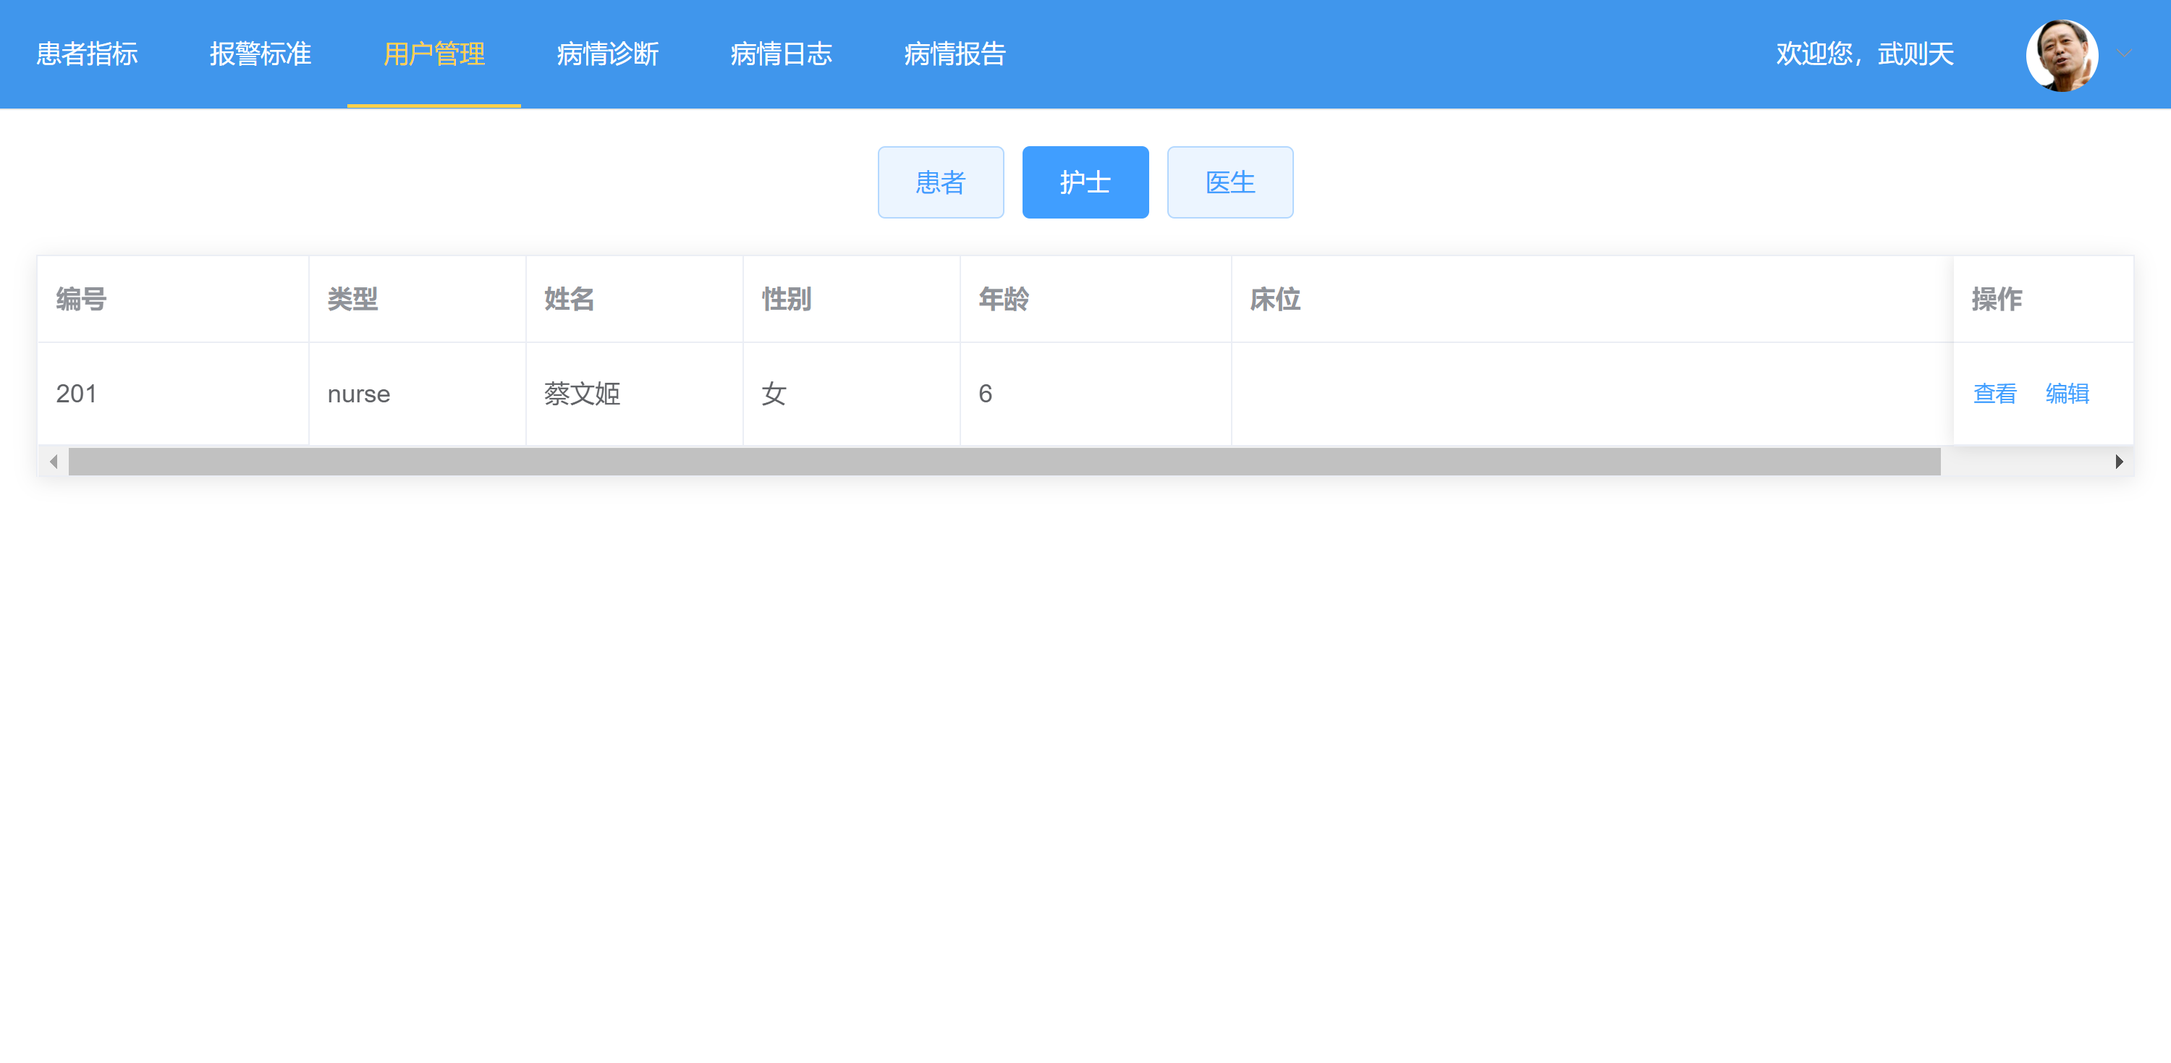
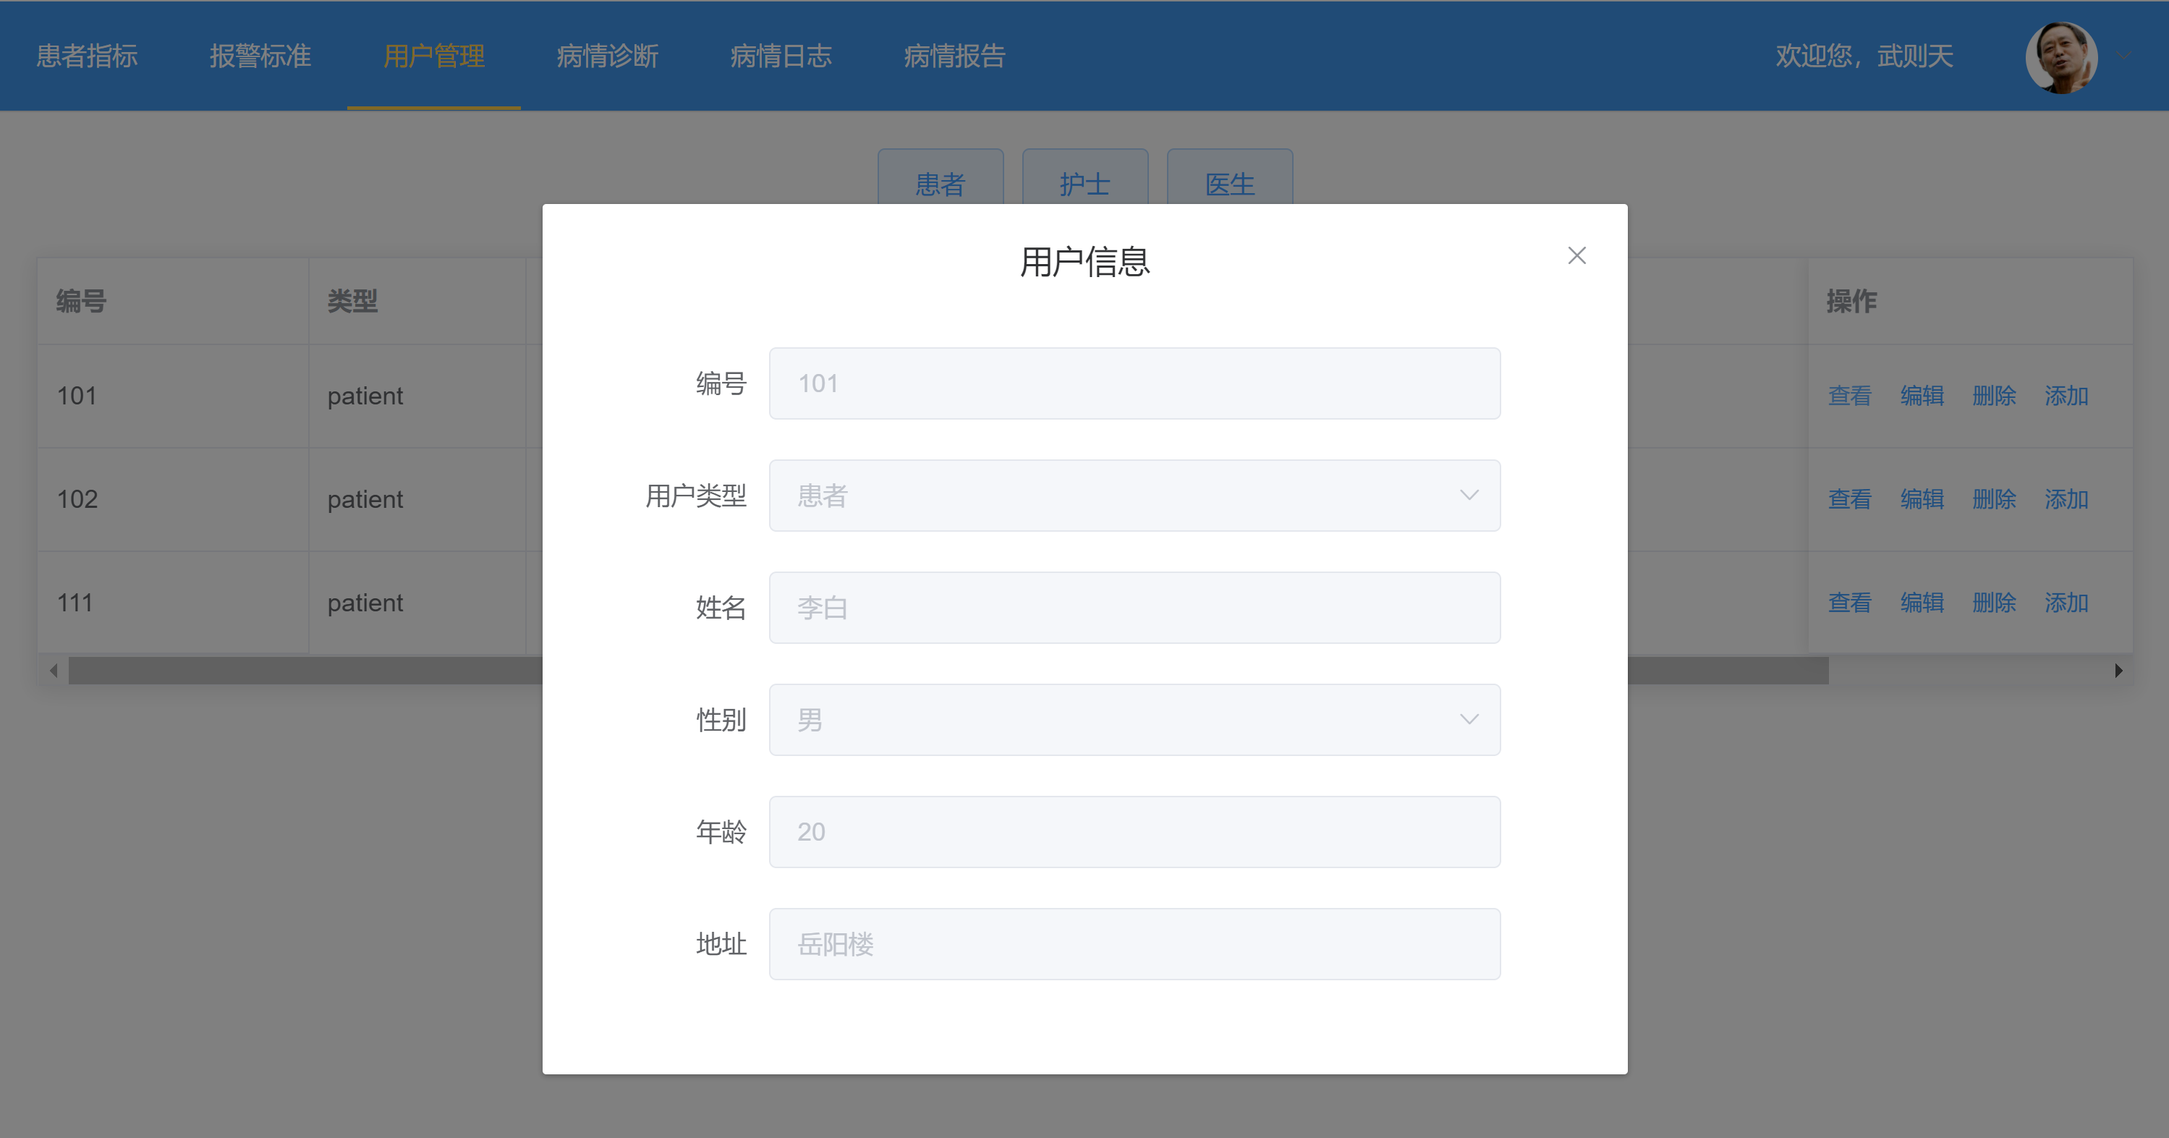
modify admin's functions;add basic test module;

diff --git a/README.md b/README.md
@@ -37,10 +37,10 @@
 #### 系统开发
 
 - [x] 环境搭建
-- [ ] 数据库搭建
-- [ ] 后端开发
-- [ ] 前端界面开发
-- [ ] 前端数据交互
+- [x] 数据库搭建
+- [x] 后端开发
+- [x] 前端界面开发
+- [x] 前端数据交互
 
 #### 软件测试
 
@@ -136,7 +136,7 @@
 
 #### 1.4 成本/效益分析
 
-#### 1.4 成本/效益分析
+
 
 ### 2. 需求分析
 
@@ -1905,43 +1905,183 @@ MIX_PUSHER_APP_CLUSTER="${PUSHER_APP_CLUSTER}"
 
 管理员可以对所有用户的信息进行管理。
 
-管理员可以查看所有患者的信息。
+管理员可以查看所有患者/护士/医生的信息。![21.1](C:\Users\70382\Desktop\2020 Go Ahead\SoftwareEngineering\img\UI\21.1.png)
 
-![21.1](.\img\UI\21.1.png)
+管理员可以查看用户的详细信息，同时，该界面不能编辑数据。![21.2](C:\Users\70382\Desktop\2020 Go Ahead\SoftwareEngineering\img\UI\21.2.png)
 
-管理员可以查看所有护士的信息。
+管理员可以修改用户的信息，在提交之后，前端数据会跟着同步信息。
 
-![21.2](.\img\UI\21.2.png)
+![21.3](C:\Users\70382\Desktop\2020 Go Ahead\SoftwareEngineering\img\UI\21.3.png)
 
-管理员可以查看所有医生的信息。
+管理员可以添加用户信息，单击添加按钮后可以添加新的用户，并且有消息提示添加成功/添加失败。
 
-![21.3](.\img\UI\21.3.png)
+![21.4](C:\Users\70382\Desktop\2020 Go Ahead\SoftwareEngineering\img\UI\21.4.png)
 
-管理员可以查看信息详情。
+![21.5](C:\Users\70382\Desktop\2020 Go Ahead\SoftwareEngineering\img\UI\21.5.png)
 
-![21.4](.\img\UI\21.4.png)
+管理员可以删除用户信息，单击按钮后可以删除用户，并且有消息提示删除成功/删除失败。
 
-管理员可以修改具体信息。
-
-![21.5](.\img\UI\21.5.png)
+![21.6](C:\Users\70382\Desktop\2020 Go Ahead\SoftwareEngineering\img\UI\21.6.png)
 
 #### 5.5测试
 
 ##### 5.2.1 软件测试的目标
 
+对于软件测试来说，可以从两个方向来理解。正向思维出发点：使自己确信产品是能够正常工作的评价一个程序和系统的特性或能力，并确定它是否达到期望的结果，软件测试就是以此为目的的任何行为。反向思维：测试是为发现错误而执行一个程序或者系统的过程，测试是为了证明程序有错，而不是证明程序无错误，一个好的测试用例在于它能发现以前未发现的错误，一个成功的测试是发现了以前未发现的错误的测试。那么通过对软件测试的描述，其实能总结出软件测试的目的，以最少的人力、物力和时间找出软件中潜在的各种错误和缺陷，通过修正各种错误和缺陷保障软件质量，避免软件发布后由于潜在的软件错误和缺陷造成的隐患所带来的商业风险。同时利用测试过程中得到的测试结果和测试信息，作为后续项目开发和测试过程改进的重要输入，避免在将来的项目开发和测试中重复同样的错误；采用更加高效的测试管理手段，提高软件测试的效率和软件产品的质量。
+
+- 软件测试是为了发现错误而执行程序的过程。
+- 测试是为了证明程序有错，而不是证明程序无错。（发现错误不是唯一目的）
+- 一个好的测试用例在于它发现至今未发现的错误。
+- 一个成功的测试是发现了至今未发现的错误的测试。
+
+需要注意的是：
+
+1. 测试并不仅仅是为了要找出错误。通过分析错误产生的原因和错误的分布特征。可以帮助项目管理者发现当前所采用的软件过程的缺陷，以便改进。同时，通过分析也能帮助我们设计出有针对性的检测方法，改善测试的有效性。
+
+2. 没有发现错误的测试也是有价值的，完整的测试是评定测试质量的一种方法。详细而严谨的可靠性增长模型可以证明这一点。例如Bev Littlewood发现一个经过测试而正常运行了n个小时的系统有继续正常运行n个小时的概率。
+
 ##### 5.2.2 软件测试的步骤
 
-##### 5.2.3 单元/集成/验收测试
+1. 需求分析
+
+　　1）先将需求规格说明书阅读一遍，熟悉项目的基本需求，对项目有个大概的框架思路。
+　　2）时间充足的情况下，可以利用画流程图的方法来理清需求和自己的思路。
+　　3）对照需求规格说明书将原型图仔细翻看一遍，对每个字段的来源去向有个思考，页面之间的跳转考虑清楚。
+　　4）在以上几个步骤的过程中，整理出需要注重的点，以及不能理解的问题，利用和同事之间讨论或是和项目经理确认，解决掉问题。
+
+2. 编写测试用例
+
+　　编写测试用例可以进一步理清自己的思路，以及项目的细节，锻炼自己的测试思维，使测试的时候对需求更加清楚。
+　　测试用例编写完成，需提交对应的项目日志。
+
+3. 测试开展
+
+　　功能测试第一轮，首先关注主流程能够走通，没有阻碍流程的问题存在，出现这类问题，及时和开发人员交流，解决问题。
+　　功能测试第二轮，关注各个端口的单独功能可以完全实现，没有阻碍，所有功能点均能实现。
+　　系统测试第一轮，各个端口综合在一起，各个端口的交互可以正常实现，并关注界面和用户体验的问题。
+　　兼容性测试，包括app和网页，app兼容测试根据测评中心设备测试，适应主流设备；网页需要兼容主流浏览器，如谷歌，火狐，IE，360等。
+　　每一轮功能测试结束，及时提交对应的项目日志，对测试情况进行总结。
+　　及时的进行bug复查，需复查项目管理系统上所有已解决和反馈给测评中心人员的反馈的bug。
+
+4. 编写测试报告
+
+　　项目的测试过程结束后，要及时的编写测试报告，把测试的情况、过程和结果写成文档，对发现的问题和缺陷进行分析，为纠正软件的存在的质量问题提供依据，同时为软件验收和交付打下基础。
+
+##### 5.2.3 软件测试的类别
+
+###### 5.2.3.1单元测试
+
+单元测试是指对软件中的最小可测试单元进行检查和验证。对于单元测试中单元的含义，一般来说，要根据实际情况去判定其具体含义，如C语言中单元指一个函数，Java里单元指一个类，图形化的软件中可以指一个窗口或一个菜单等。总的来说，单元就是人为规定的最小的被测功能模块。单元测试是在软件开发过程中要进行的最低级别的测试活动，软件的独立单元将在与程序的其他部分相隔离的情况下进行测试。
+
+###### 5.3.3.2集成测试
+
+集成测试介于单元测试和系统测试之间，起到“桥梁作用”，一般由开发小组采用白盒加黑盒的方式来测试，既验证“设计”，又验证“需求”。 主要用来测试模块与模块之间的接口，同时还要测试一些主要业务功能。集成测试（也叫组装测试，联合测试）是单元测试的逻辑扩展。它最简单的形式是：把两个已经测试过的单元组合成一个组件，测试它们之间的接口。从这一层意义上讲，组件是指多个单元的集成聚合。在现实方案中，许多单元组合成组件，而这些组件又聚合为程序的更大部分。方法是测试片段的组合，并最终扩展成进程，将模块与其他组的模块一起测试。最后，将构成进程的所有模块一起测试。此外，如果程序由多个进程组成，应该成对测试它们，而不是同时测试所有集成测试进程。
+
+###### 5.3.2.3系统测试
+
+系统测试粒度最大，一般由独立测试小组采用黑盒方式来测试，主要测试系统是否符合“需求规格说明书”。在经过以上各阶段测试确认之后，把系统完整地模拟客户环境来进行的测试。系统测试是将已经确认的软件、计算机硬件、外设、网络等其他元素结合在一起，进行信息系统的各种组装测试和确认测试，其目的是通过与系统的需求相比较，发现所开发的系统与用户需求不符或矛盾的地方，从而提出更加完善的方案.。它的的任务是尽可能彻底地检查出程序中的错误，提高软件系统的可靠性，其目的是检验系统"做得怎样？"。这阶段又可分为三个步骤：模块测试，测试每个模块的程序是否有错误；组装测试，测试模块之间的接口是否正确；确认测试，测试整个软件系统是否满足用户功能和性能的要求。该阶段结束应交付测试报告，说明测试数据的选择，测试用例以及测试结果是否符合预期结果。测试发现问题之后要经过调试找出错误原因和位置，然后进行改正。是基于系统整体需求说明书的黑盒类测试，应覆盖系统所有联合的部件。系统测试是针对整个产品系统进行的测试，目的是验证系统是否满足了需求规格的定义，找出与需求规格不相符合或与之矛盾的地方。
+系统测试的对象不仅仅包括需要测试的产品系统的软件，还要包含软件所依赖的硬件、外设甚至包括某些数据、某些支持软件及其接口等。因此，必须将系统中的软件与各种依赖的资源结合起来，在系统实际运行环境下来进行测试。
+
+###### 5.3.2.4验收测试
+
+验收测试与系统测试相似，主要区别是测试人员不同，验收测试由用户执行。
 
 ##### 5.2.4测试过程
 
 ###### 5.2.4.1单元测试（黑盒测试）
 
+黑盒测试，它是通过测试来检测每个功能是否都能正常使用。在测试中，把程序看作一个不能打开的黑盒子，在完全不考虑程序内部结构和内部特性的情况下，在程序接口进行测试，它只检查程序功能是否按照需求规格说明书的规定正常使用，程序是否能适当地接收输入数据而产生正确的输出信息。黑盒测试着眼于程序外部结构，不考虑内部逻辑结构，主要针对软件界面和软件功能进行测试。黑盒测试是以用户的角度，从输入数据与输出数据的对应关系出发进行测试的。很明显，如果外部特性本身设计有问题或规格说明的规定有误，用黑盒测试方法是发现不了的。黑盒测试主要测到的错误类型有：不正确或遗漏的功能；接口、界面错误；性能错误；数据结构或外部数据访问错误；初始化或终止条件错误等等。常用的黑盒测试方法有：等价类划分法；边界值分析法；因果图法；场景法；正交实验设计法；判定表驱动分析法；错误推测法；功能图分析法。
+
+下面对各个模块进行测试如下：
+
+**用户注册模块测试**
+
+注册模块输入条件等价类表
+
+| 输入等价类 | 有效等价类                                                   | 无效等价类                                                   |
+| ---------- | ------------------------------------------------------------ | ------------------------------------------------------------ |
+| 注册信息   | 1.用户类型、用户ID和用户密码不为空值，且所有数据与数据库中的信息相匹配 | 1.无效的用户类型<br />2.无效的用户ID<br />3.用户ID与用户密码不一致<br />4.存在空值 |
+
+有效等价类测试用例表
+
+| 测试数据                                                   | 期望结果 | 覆盖的有效等价类 |
+| ---------------------------------------------------------- | -------- | ---------------- |
+| 用户类型：patient<br />用户ID：101<br />用户密码：12345678 | 有效输入 | 1                |
+
+无效等价类测试用例表
+
+| 测试数据                                                     | 期望结果 | 覆盖的无效等价类 |
+| ------------------------------------------------------------ | -------- | ---------------- |
+| 用户类型：kakaka<br />用户ID：101<br />用户密码：12345678    | 无效输入 | 1                |
+| 用户类型：patient<br />用户ID：666<br />用户密码：12345678   | 无效输入 | 2                |
+| 用户类型：patient<br />用户ID：101<br />用户密码：1234567890 | 无效输入 | 3                |
+| 用户类型：null<br />用户ID：101<br />用户密码：12345678      | 无效输入 | 4                |
+
+**病情诊断模块测试**
+
+
+
+**报警标准模块测试**
+
+
+
+**用户管理模块测试**
+
+
+
+**用户搜素模块测试**
+
+
+
 ###### 5.3.3.2集成测试（白盒测试）
 
 ###### 5.3.3.3系统测试与回归测试
 
+**系统测试**
+
+系统测试是对整个系统的测试，将硬件、软件、操作人员看作一个整体，检验它是否有不符合系统说明书的地方。这种测试可以发现系统分析和设计中的错误。如安全测试是测试安全措施是否完善，能不能保证系统不受非法侵入。再例如，压力测试是测试系统在正常数据量以及超负荷量(如多个用户同时存取) 等情况下是否还能正常地工作。比较常见的、典型的系统测试包括恢复测试、安全测试、压力测试。
+
+- 恢复测试
+
+恢复测试作为一种系统测试，主要关注导致软件运行失败的各种条件，并验证其恢复过程能否正确执行。在特定情况下，系统需具备容错能力。另外，系统失效必须在规定时间段内被更正，否则将会导致严重的经济损失。
+
+- 安全测试
+
+安全测试用来验证系统内部的保护机制，以防止非法侵入。在安全测试中，测试人员扮演试图侵入系统的角色，采用各种办法试图突破防线。因此系统安全设计的准则是要想方设法使侵入系统所需的代价更加昂贵。
+
+- 压力测试
+
+压力测试是指在正常资源下使用异常的访问量、频率或数据量来执行系统。在压力测试中可执行以下测试：
+
+①如果平均中断数量是每秒一到两次，那么设计特殊的测试用例产生每秒十次中断。
+
+②输入数据量增加一个量级，确定输入功能将如何响应。
+
+③在虚拟操作系统下，产生需要最大内存量或其它资源的测试用例，或产生需要过量磁盘存储的数据。
+
+**回归测试**
+
+回归测试是指修改了旧代码后，重新进行测试以确认修改没有引入新的错误或导致其他代码产生错误。自动回归测试将大幅降低系统测试、维护升级等阶段的成本。回归测试作为软件生命周期的一个组成部分，在整个软件测试过程中占有很大的工作量比重，软件开发的各个阶段都会进行多次回归测试。在渐进和快速迭代开发中，新版本的连续发布使回归测试进行的更加频繁，而在极端编程方法中，更是要求每天都进行若干次回归测试。因此，通过选择正确的回归测试策略来改进回归测试的效率和有效性是很有意义的。选择回归测试策略应该兼顾效率和有效性两个方面。常用的选择回归测试的方式有一下几类：
+
+- 再测试全部用例
+
+选择基线测试用例库中的全部测试用例组成回归测试包，这是一种比较安全的方法，再测试全部用例具有最低的遗漏回归错误的风险，但测试成本最高。全部再测试几乎可以应用到任何情况下，基本上不需要进行分析和重新开发，但是，随着开发工作的进展，测试用例不断增多，重复原先所有的测试将带来很大的工作量，往往超出了我们的预算和进度。
+
+- 基于风险选择测试
+
+选择基线测试用例库中的全部测试用例组成回归测试包，这是一种比较安全的方法，再测试全部用例具有最低的遗漏回归错误的风险，但测试成本最高。全部再测试几乎可以应用到任何情况下，基本上不需要进行分析和重新开发，但是，随着开发工作的进展，测试用例不断增多，重复原先所有的测试将带来很大的工作量，往往超出了我们的预算和进度。
+
+- 基于操作剖面选择测试
+
+如果基线测试用例库的测试用例是基于软件操作剖面开发的，测试用例的分布情况反映了系统的实际使用情况。回归测试所使用的测试用例个数可以由测试预算确定，回归测试可以优先选择那些针对最重要或最频繁使用功能的测试用例，释放和缓解最高级别的风险，有助于尽早发现那些对可靠性有最大影响的故障。这种方法可以在一个给定的预算下最有效的提高系统可靠性，但实施起来有一定的难度。
+
+- 再测试修改的部分
+
+当测试者对修改的局部化有足够的信心时，可以通过相依性分析识别软件的修改情况并分析修改的影响，将回归测试局限于被改变的模块和它的接口上。通常，一个回归错误一定涉及一个新的、修改的或删除的代码段。在允许的条件下，回归测试尽可能覆盖受到影响的部分。再测试全部用例的策略是最安全的策略，但已经运行过许多次的回归测试不太可能揭示新的错误，而且很多时候，由于时间、人员、设备和经费的原因，不允许选择再测试全部用例的回归测试策略，此时，可以选择适当的策略进行缩减的回归测试。
+
 ###### 5.3.3.4系统测试结论
+
+经过对该系统的需求分析的要求进行基本功能测试后，基本功能可以正常使用，数据库功能也正常，系统四种类型的用户互不干扰，数据更新未发生冲突，所以结果符合接化发医院监护系统的需求。
 
 ### 6维护
 
@@ -1997,3 +2137,7 @@ MIX_PUSHER_APP_CLUSTER="${PUSHER_APP_CLUSTER}"
 #### 7.2体会
 
 ### 8附录
+
+#### 8.1可进一步改进模块
+
+#### 8.2参考文献
